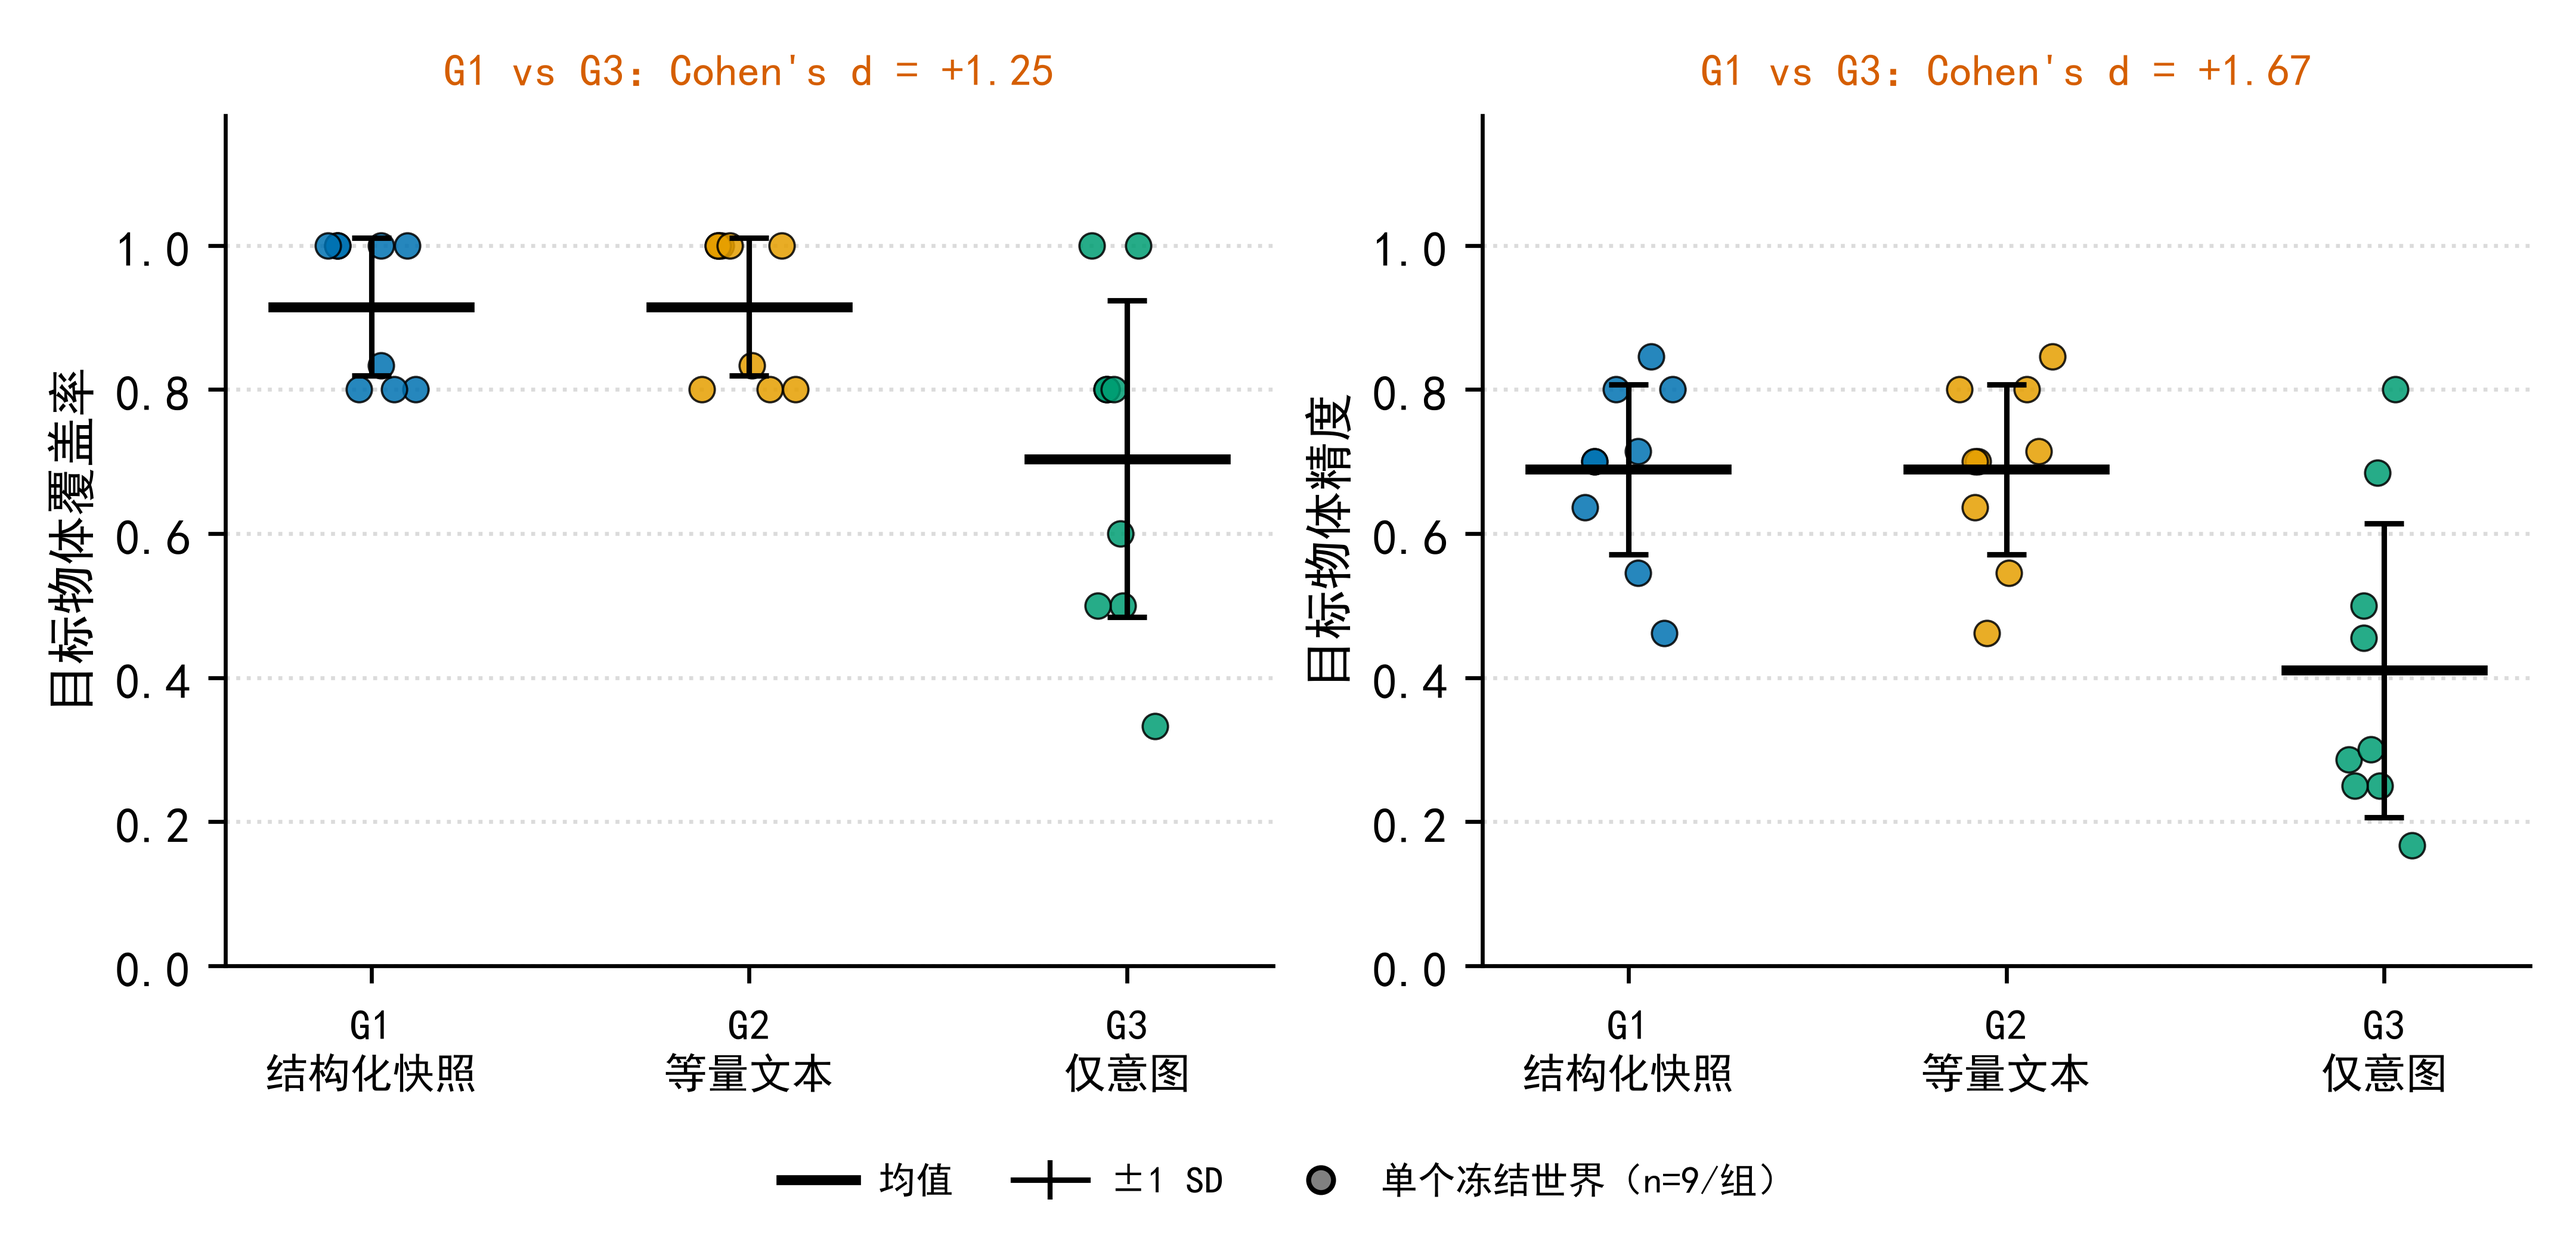
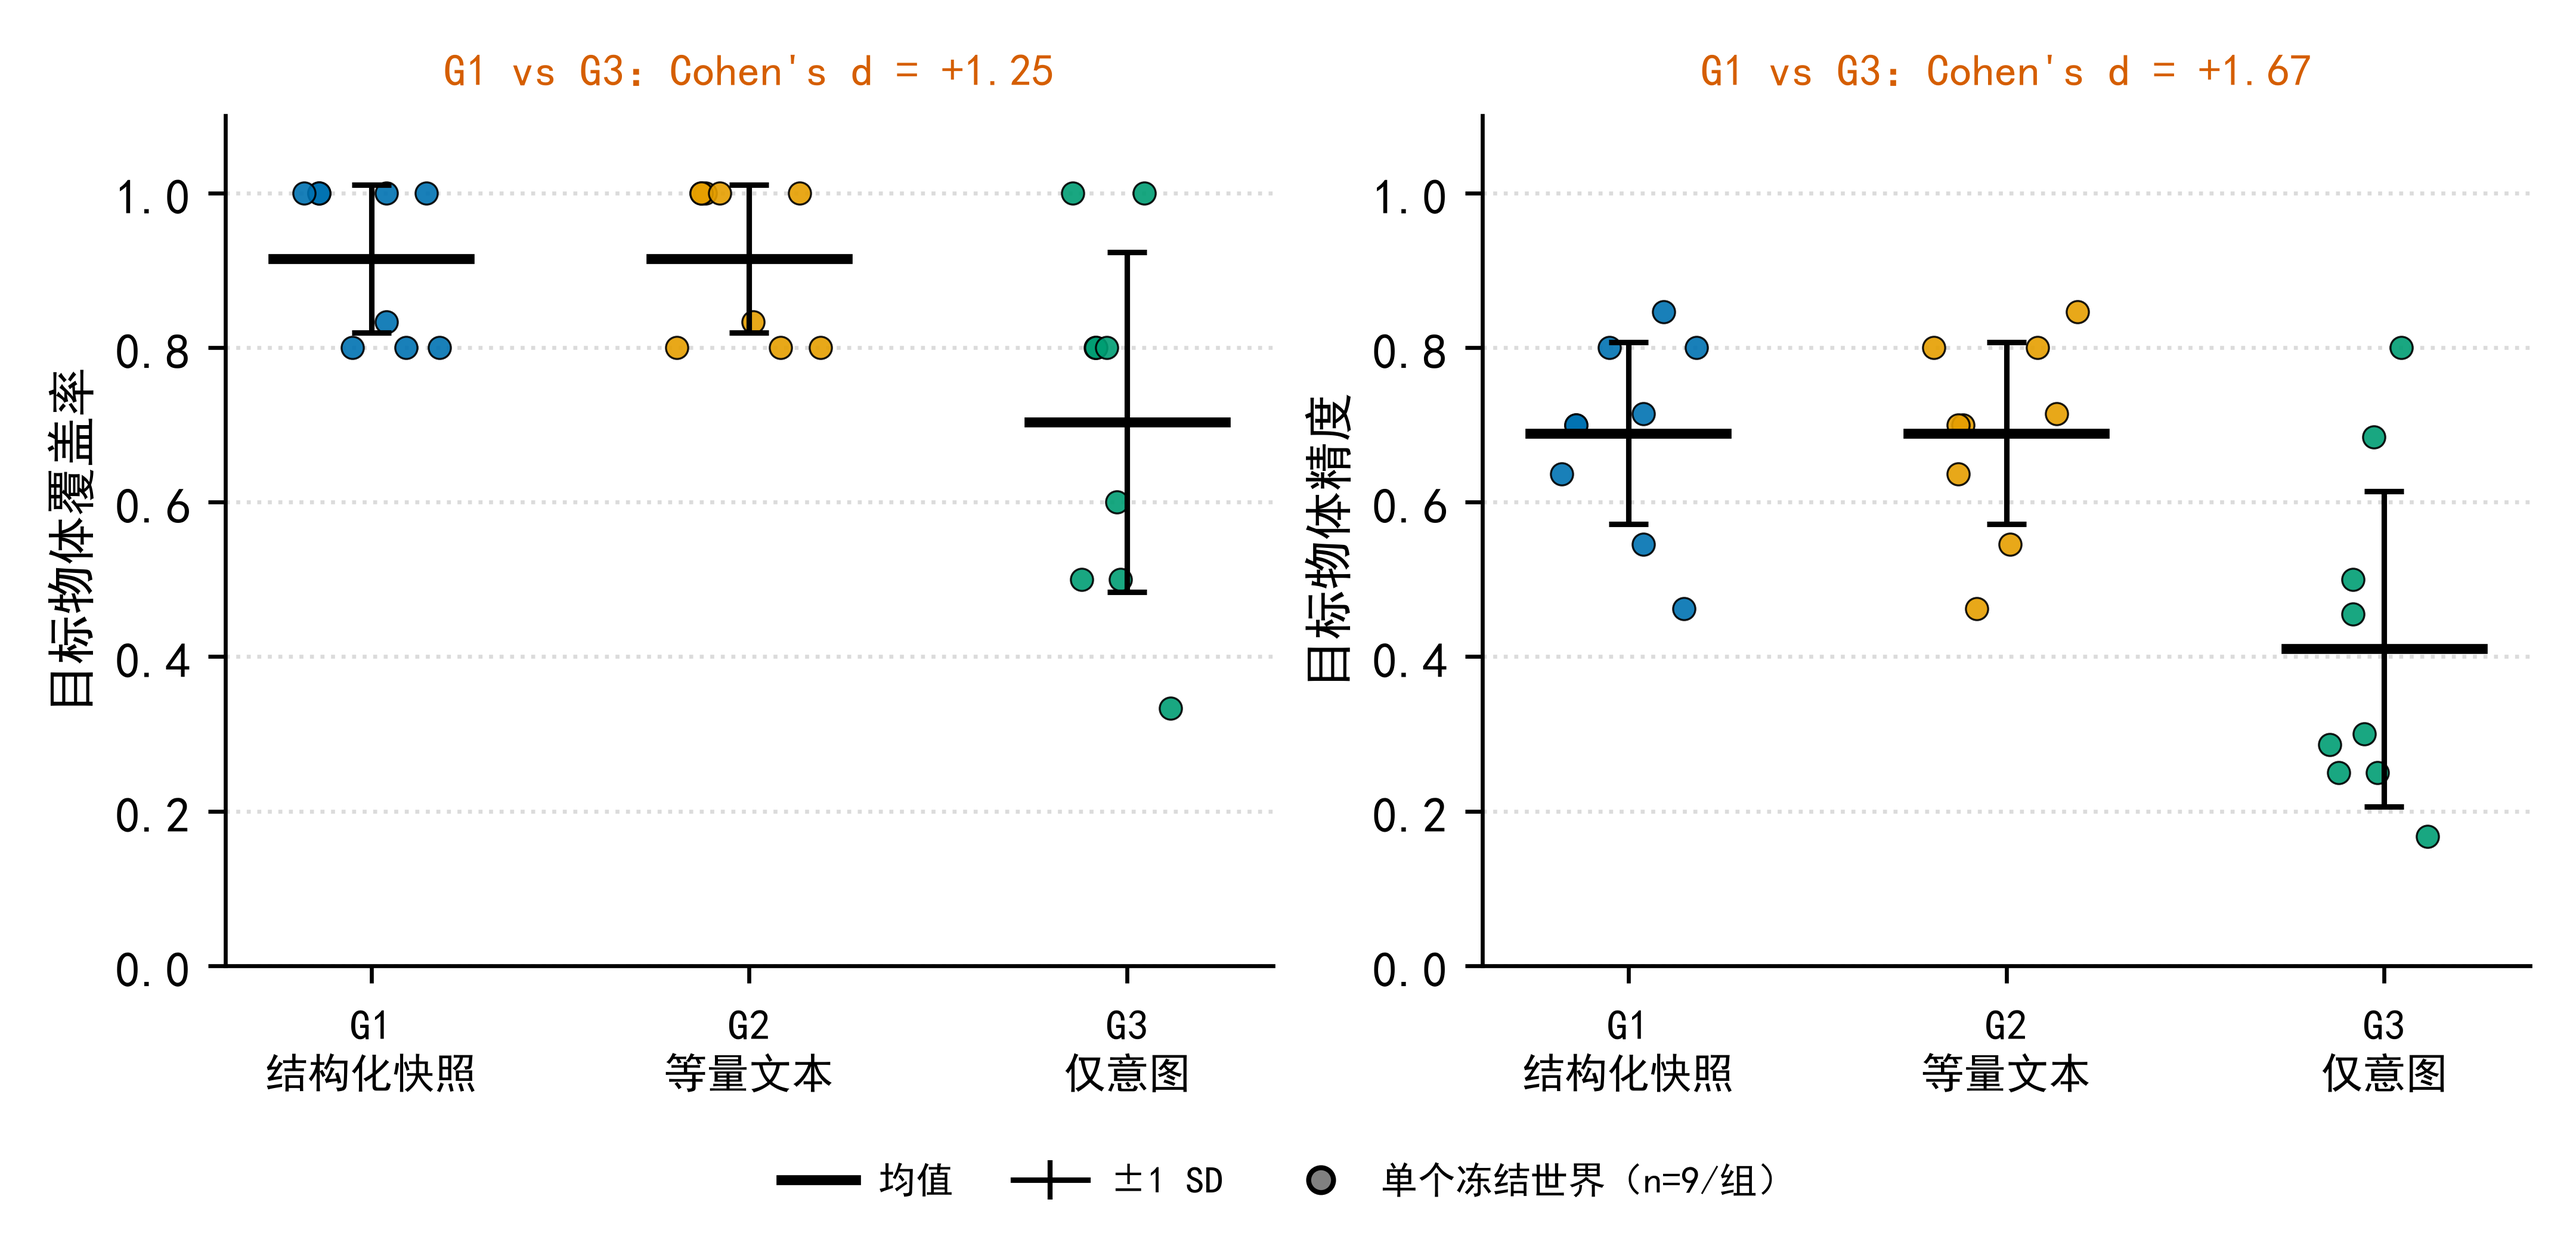
fix(fig3): 加大抖动/缩小点径使n=9可数 + 收紧顶部空白

diff --git a/scripts/make_fig345.py b/scripts/make_fig345.py
@@ -44,13 +44,13 @@ def cohen_d(a, b):
     return (ma - mb) / s if s > 0 else 0.0
 
 
-def dot_strip(ax, groups, labels, colors, jitter=0.13, seed=42):
+def dot_strip(ax, groups, labels, colors, jitter=0.20, seed=42):
     """画 stripplot + 均值线 + 标准差须（P1 合规做法）"""
     rs = np.random.RandomState(seed)
     for i, (v, c) in enumerate(zip(groups, colors)):
         x = i + rs.uniform(-jitter, jitter, len(v))
-        ax.scatter(x, v, s=26, color=c, alpha=0.85, edgecolor="black",
-                   linewidth=0.45, zorder=3)
+        ax.scatter(x, v, s=20, color=c, alpha=0.9, edgecolor="black",
+                   linewidth=0.4, zorder=3)
         m, sd = st.mean(v), st.pstdev(v)
         ax.plot([i - 0.26, i + 0.26], [m, m], color="black", lw=2.0, zorder=5)
         ax.errorbar(i, m, yerr=sd, fmt="none", ecolor="black",
@@ -97,7 +97,7 @@ for ax, key, ylab in [(axes[0], "M2_recall", "目标物体覆盖率"),
     groups = [vals(c, key) for c in CONDS]
     dot_strip(ax, groups, LABELS, COLORS)
     ax.set_ylabel(ylab, fontsize=10)
-    ax.set_ylim(0, 1.18)
+    ax.set_ylim(0, 1.10)
     ax.grid(axis="y", ls=":", alpha=0.45, zorder=0)
     ax.set_axisbelow(True)
     for s in ["top", "right"]:
